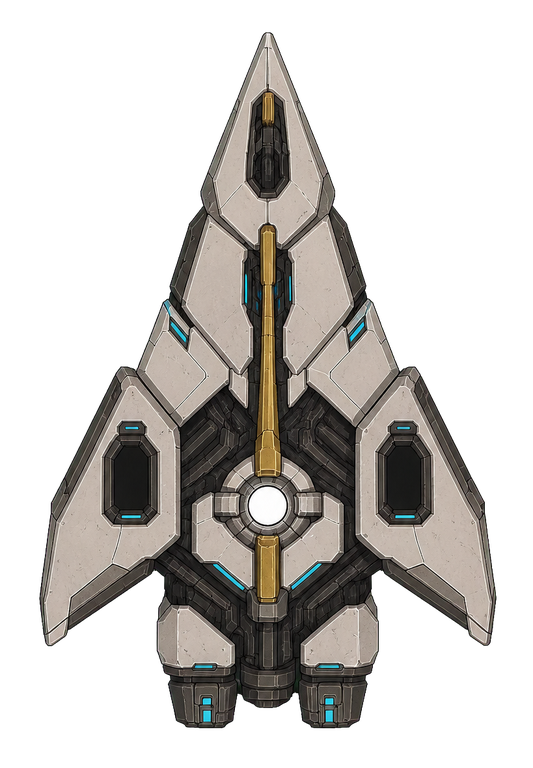
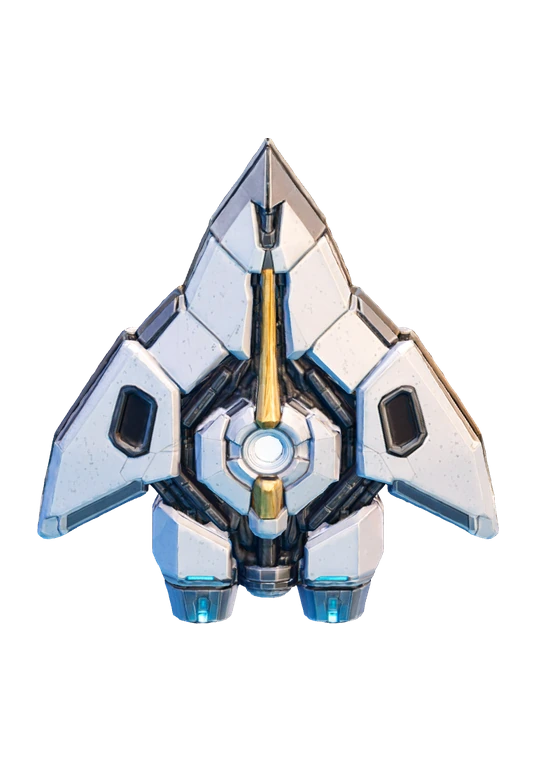
fix(art): T2 기함이 3D 모델로 안 바뀌던 문제 — H2 전용 본체·외장 특례 해소(이사 지적)
- 원인: T2(ARCLIGHT)만 shipSprite 가 A3 가 아니라 H2_BASE_FRAME 을 쓰고(A3 는 폴백),
  그 위에 무기별 외장 H2_ASSAULT/H2_CARRIER 를 덮어쓴다. A3 만 교체해선 화면에 반영될 수 없었다
- H2_base_aligned.webp 를 t2 실모델 렌더로 교체(533x768 원점 유지)
- drawHullFrame 외장 오버레이 폐지(HULL_FRAME_OVERLAY=false) — 6등급 중 T2 에만 있던 특례라
  통일. 구 아트 프레임이 3D 본체를 덮어 교체가 보이지 않던 근본 원인
  ⚠무기별 함체 외장 변화 연출은 사라진다(무기 구분은 포대 마운트·HUD 로 유지)
- 865/865, 포털 41.40MB. 실측 g9-h2-final-ab.png(전/후)·g9-h2-zoom.png(본체 확대)

diff --git a/js/ships.js b/js/ships.js
@@ -313,8 +313,13 @@ export function shipSprite(tier, weapon) {
   return spriteCache[tier];
 }
 
-/** H2 전용 외장 프레임. aligned 3종은 같은 533×768 원점을 절대 변경하지 않는다. */
+/** H2 전용 외장 프레임 — §G-9 이후 폐지(이사 "기함 3D 이미지 적용이 안된다").
+ *  T2 만 본체 위에 무기별 외장(H2_ASSAULT/H2_CARRIER)을 덮어써서, 본체를 3D 실모델 렌더로 바꿔도
+ *  구 아트 프레임이 화면을 가려 교체가 보이지 않았다. 6등급 중 T2 에만 있던 특례라 통일이 맞다.
+ *  무기 구분은 그대로 남는다(포대 마운트 drawWeaponRig + HUD 무기명). 호출부·시그니처는 보존. */
+const HULL_FRAME_OVERLAY = false;
 export function drawHullFrame(ctx, tier, weapon, previousWeapon = null, blend = 1) {
+  if (!HULL_FRAME_OVERLAY) return;
   if (tier !== 2) return;
   const frameFor = (w) => getSprite(w === 'homing' ? 'H2_CARRIER' : 'H2_ASSAULT');
   const current = frameFor(weapon);
